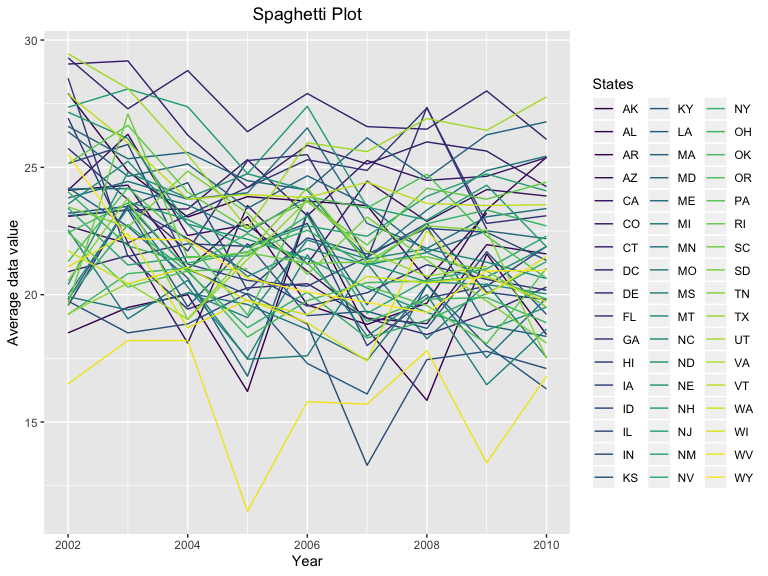
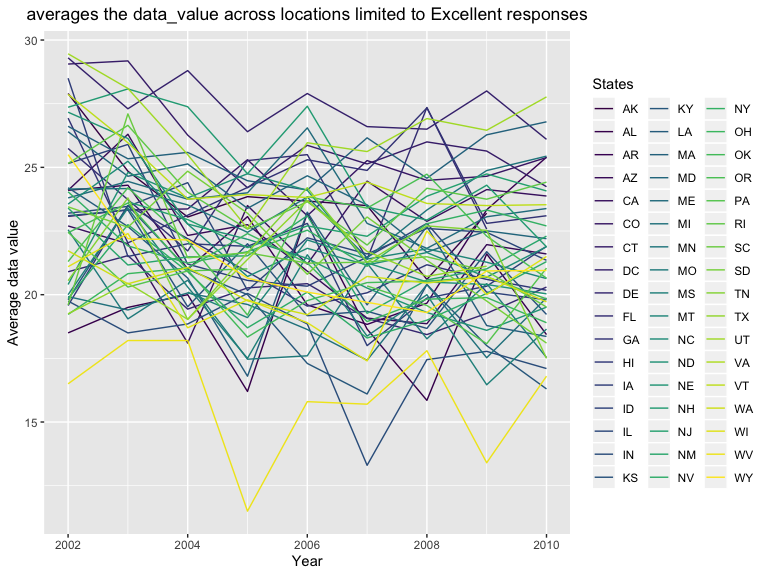
change plot names

Changed region(s): [[0.0312, 0.0, 0.7812, 0.0625]]

diff --git a/p8105_hw3_ys3298.md b/p8105_hw3_ys3298.md
@@ -10432,7 +10432,7 @@ Comment: For this resulting dataset, there are 35 observations and 1444
 variables. It also includes the week, day ID, weekend or weekday
 information. I round all data into integer in order to see clearly.
 
-## Table
+## Total activity variable for each day
 
 | week | day\_id | day       | weekday\_end |    sum |
 | ---: | ------: | :-------- | :----------- | -----: |
